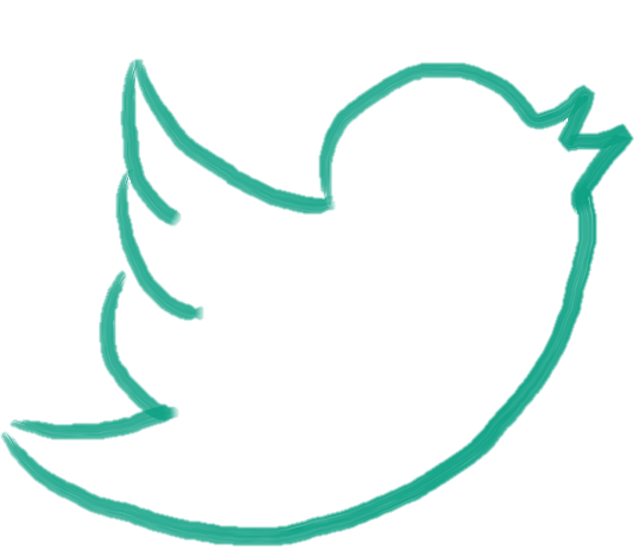
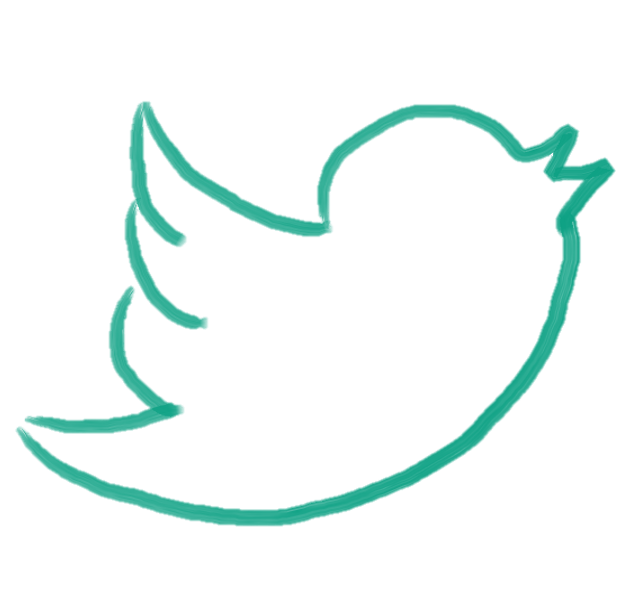
Voyagir Landing v1.2
Nouvelle section, bandeau, mise en forme.

Changed region(s): [[0.0, 0.0929, 1.0, 1.0]]

diff --git a/web/css/style.css b/web/css/style.css
@@ -1,10 +1,7 @@
 /* Style.css */
 body{ 
     margin:0px;
-    color: #ebc84c;
     background: #f8f8f0;
-    font-family: 'Sue Ellen Francisco', cursive;
-    font-size: 4em;
 }
 
 a {
@@ -18,10 +15,10 @@ section{
 
 .icon {
     display: inline-block;
-    height: 50px;
+    height: 55px;
     position: relative;
     top: 5px;
-    background-size: contain;
+    background-size: 100%;
     background-repeat: no-repeat;
 }
 
@@ -39,8 +36,11 @@ section{
 }
 
 #home {
+    color: #ebc84c;
+    font-family: 'Sue Ellen Francisco', cursive;
+    font-size: 3em;
     background-color: #f8f8f0;
-    margin: 10%;
+    margin: 16% 10% 16% 10%;
 }
 
 #main-form{
@@ -48,23 +48,61 @@ section{
     padding-top: 3%;
 }
 
+/* Banner */
+#banner{
+    color: white;
+    text-align: right;
+    height: 40px;
+    background-color: #33ccaf;
+    padding: 5px 5% 0% 5%;
+}
+#banner .logo{
+    width: 5%;
+    display: inline-block;
+    float: left;
+    position: relative;
+    top: -20px;
+}
+#banner a{
+    color: inherit;
+    margin: 0% 0.5% 0% 0%;
+}
+
+/* Body */
 #keywords{
     padding-bottom: 7%;
+    font-family: 'Open Sans', cursive;
+    color: white;
+    background-color: #33ccaf;
+}
+
+#keywords h1{
+    font-family: 'Sue Ellen Francisco', cursive;
+    color: #444485; 
+}
+
+.feature h2 {
+    font-family: 'Sue Ellen Francisco', cursive;
+}
+    
+.feature img{
+    margin-top: 20px;
+    margin-right: 10px;
+    width: 19%;
+    float: left;
 }
 
 /* Section 1 */
-
 #contact{
     font-family: 'Open Sans', cursive;
-    font-size: 0.5em;
     background-color: #444485;
     color: #ebc84c;
 }
 
 #contact h1 {
+    font-size: 4em;
     font-family: 'Sue Ellen Francisco', cursive;
     color: #ebc84c;
-    font-size: 3em;
     padding-top: 2%;
 }
 
@@ -79,7 +117,7 @@ section{
     font-family: 'Open Sans';
 }
 #contact ul li{
-    margin: 5% 0 5% 0;
+    vertical-align: middle;
 }
 
 #contact .icon{
@@ -87,61 +125,75 @@ section{
 }
 
 .bullet {
-    width: 30px;
-    height: 30px;
+    display: inline-block;
+    width: 20px;
+    height: 20px;
 }
 
 /* Mail Chimp */
 .btn{
     color: white;
+    font-size: 0.7em;
     background-color: #ebc84c;
     border-color: #ebc84c ;
     margin-bottom: 1%;
 }
 
 #home .icon {
-    width: 4%;
+    width: 5%;
 }
 
-.icon.facebook{   
-    background-image: url('../img/facebook-v.png');
+.icon.facebook{
+    top: 8px;
+    background-image: url('../img/facebook-j.png');
 }
 
 .icon.facebook:hover {
-    background-image: url('../img/facebook-b.png');
+    background-image: url('../img/facebook-v.png');
 }
     
 .icon.twitter {
-    top: 7px;
-    background-image: url('../img/twitter-v.png');
+    background-image: url('../img/twitter-j.png');
 }
 
 .icon.twitter:hover {
-    background-image: url('../img/twitter-b.png');
-}
-
-.send img {
-    width: 80px;
+    background-image: url('../img/twitter-v.png');
 }
 
 #mce-EMAIL{
-    font-weight: 300;
+    width: 20%;
+    height: 35px;
     color: #444485;
     font-family: 'Open Sans';
+    position: relative;
+    top: 13px;
 }
 
 /* 480px */
 @media (max-width: 480px){
-    body{
-        font-size: 0.5em;
+    #mce-EMAIL{
+        top: 8px;
     }
 }
 
 @media (max-width: 768px) {
     body{
+        font-size: 1em;
+    }
+    
+    #home{
         font-size: 1.5em;
     }
-
+        
+    #mce-EMAIL{
+        height: 15px;
+        top: 8px;
+    }
+    
+    #keywords h1{
+        font-size: 1.5em;
+    }
+    
     .small-screen{
         display: block;
     }
@@ -161,12 +213,8 @@ section{
         background-size: 30px;
     }
     
-    .feature img{
-        width: 50px;
-        margin: 5%;
-    }
     #contact h1{
-        font-size: 2em;
+        //font-size: 2em;
     }
     #contact img{
         width: 100px;
@@ -176,35 +224,8 @@ section{
         width: 10px;
         height: 10px;
     }
+    
+    #banner{
+        display: none;
+    }
 }
-
-/*
-#footer{
-    background-color: #33ccaf;
-    padding: 5px;
-    color: white;
-    text-align: center;
-}
-
-#kesako{
-    background-color: #ebc84c;
-}
-
-#why {
-    background-color: #a4e45a;
-}
-
-#the-project{
-    background-color: #33ccaf;
-}
-
-#call-to-action{
-    background-color: #ff2554;
-}
-
-#contact-en{
-    font-style: italic;
-    border-top: 1px solid #333333;
-    font-size: 15px;
-}
-*/

diff --git a/app/Resources/landing/section1.html b/app/Resources/landing/section1.html
@@ -9,13 +9,18 @@
     <br />
     <ul>
         <li><img src="{{ asset('/img/spot-v.png') }}" class="bullet" /> Montpellier 34000, France</li>
-        <li><img src="{{ asset('/img/arobase-v.png') }}" class="bullet" /> marine@voyagir.com</li>
+        <li><a href="mailto:marine@voyagir.com?Subject=Subject" target="_top"><img src="{{ asset('/img/arobase-v.png') }}" class="bullet" /> marine@voyagir.com</li>
         <li><img src="{{ asset('/img/phone-v.png') }}" class="bullet" /> 0607981297</li>
-        <li><img src="{{ asset('/img/link-v.png') }}" class="bullet" /> www.voyagir.com</li>
+        <li><span class="bullet">&nbsp;</span><a href="www.voyagir.com">www.voyagir.com</a></li>
+        <li><a href="http://www.twitter.com/voyagir">
+                <img src="{{ asset('/img/twitter-v.png') }}" class="bullet" />
+                @voyagir
+            </a>
+        </li>
+        <li><a href="http://www.facebook.com/voyagir">
+                <img src="{{ asset('/img/facebook-v.png') }}" class="bullet" />
+                www.facebook.com/voyagir
+            </a>
+        </li>
     </ul>
-    <div class="row text-center">
-        <a href="http://www.facebook.com/voyagir" target="_blank" class="icon facebook"></a>
-        <a href="http://www.twitter.com/marinethica" target="_blank" class="icon twitter"></a>
-    </div>
-             
 </section>

diff --git a/app/Resources/landing/section2.html b/app/Resources/landing/section2.html
@@ -1,18 +1,7 @@
-<section id="why">
-    <div class="container">
-        <div class="row">
-            <div class="col-xs-12 col-sm-6"> 
-                <div class="fr">
-                    <h2>Pourquoi Voyagir?</h2>
-                    <p>Grumpy wizards make toxic brew for the evil Queen and Jack. One morning, when Gregor Samsa woke from troubled dreams,</p>
-                </div>
-            </div>
-            <div class="col-xs-12 col-sm-6">
-                <div class="en">
-                    <h2>Why this project?</h2>
-                    <p>Grumpy wizards make toxic brew for the evil Queen and Jack. One morning, when Gregor Samsa woke from troubled dreams,</p>
-                </div>
-            </div>
-        </div>
-    </div>
+<section id="call">
+    <p>Inscrivez-vous pour faire partie des premiers acteurs de Voy’Agir, et 
+        signalez des établissements respectueux des principes du tourisme 
+        responsable, devenez bêta testeurs de nos évolutions et restez 
+        informés de l’avancement du projet.
+    </p>
 </section>

diff --git a/web/js/analytics.js b/web/js/analytics.js
@@ -1,0 +1,10 @@
+  (function(i,s,o,g,r,a,m){i['GoogleAnalyticsObject']=r;i[r]=i[r]||function(){
+  (i[r].q=i[r].q||[]).push(arguments)},i[r].l=1*new Date();a=s.createElement(o),
+  m=s.getElementsByTagName(o)[0];a.async=1;a.src=g;m.parentNode.insertBefore(a,m)
+  })(window,document,'script','//www.google-analytics.com/analytics.js','ga');
+
+  ga('create', 'UA-65326680-1', 'auto');
+  ga('send', 'pageview');
+
+
+
